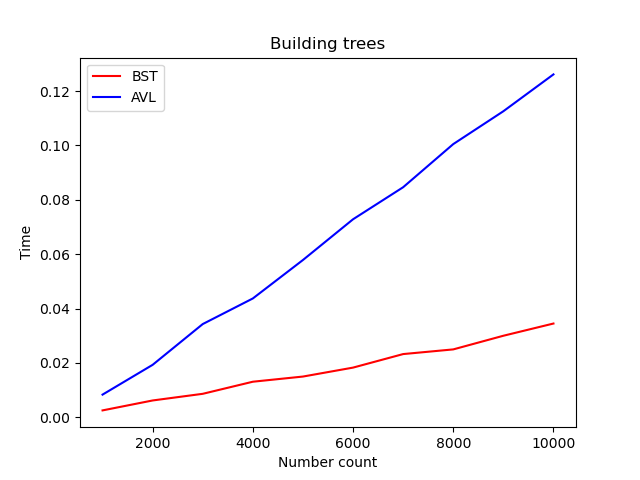
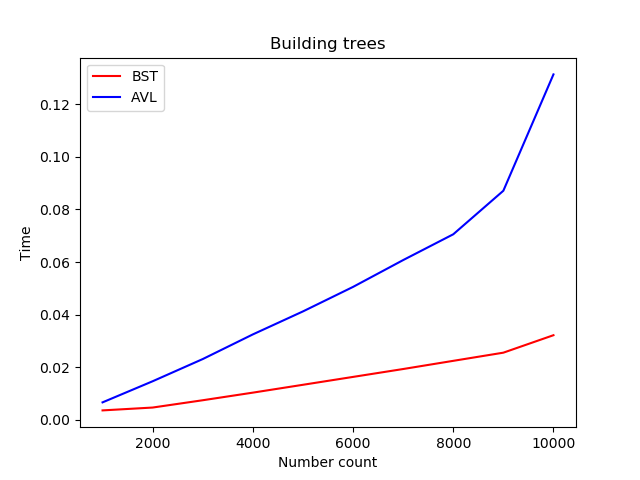
updated graphs

diff --git a/main.py b/main.py
@@ -139,12 +139,10 @@ def main():
     sys.setrecursionlimit(1000000)
     # generating this takes minutes, importing pregenerated from nums.py
     # numbers_pool = [randint(1, 30000) for _ in range(10000)]
-    # TODO: odczyty czasu niepoprawne w wsl, czekam kilka minut, dostaje kilka setnych
-    # TODO: wygenerować wykresy ponownie
     # uncomment to create plot
     # create_build_plot()
-    # create_search_plot()
-    create_bst_removing_plot()
+    create_search_plot()
+    # create_bst_removing_plot()
 
 
 if __name__ == '__main__':
